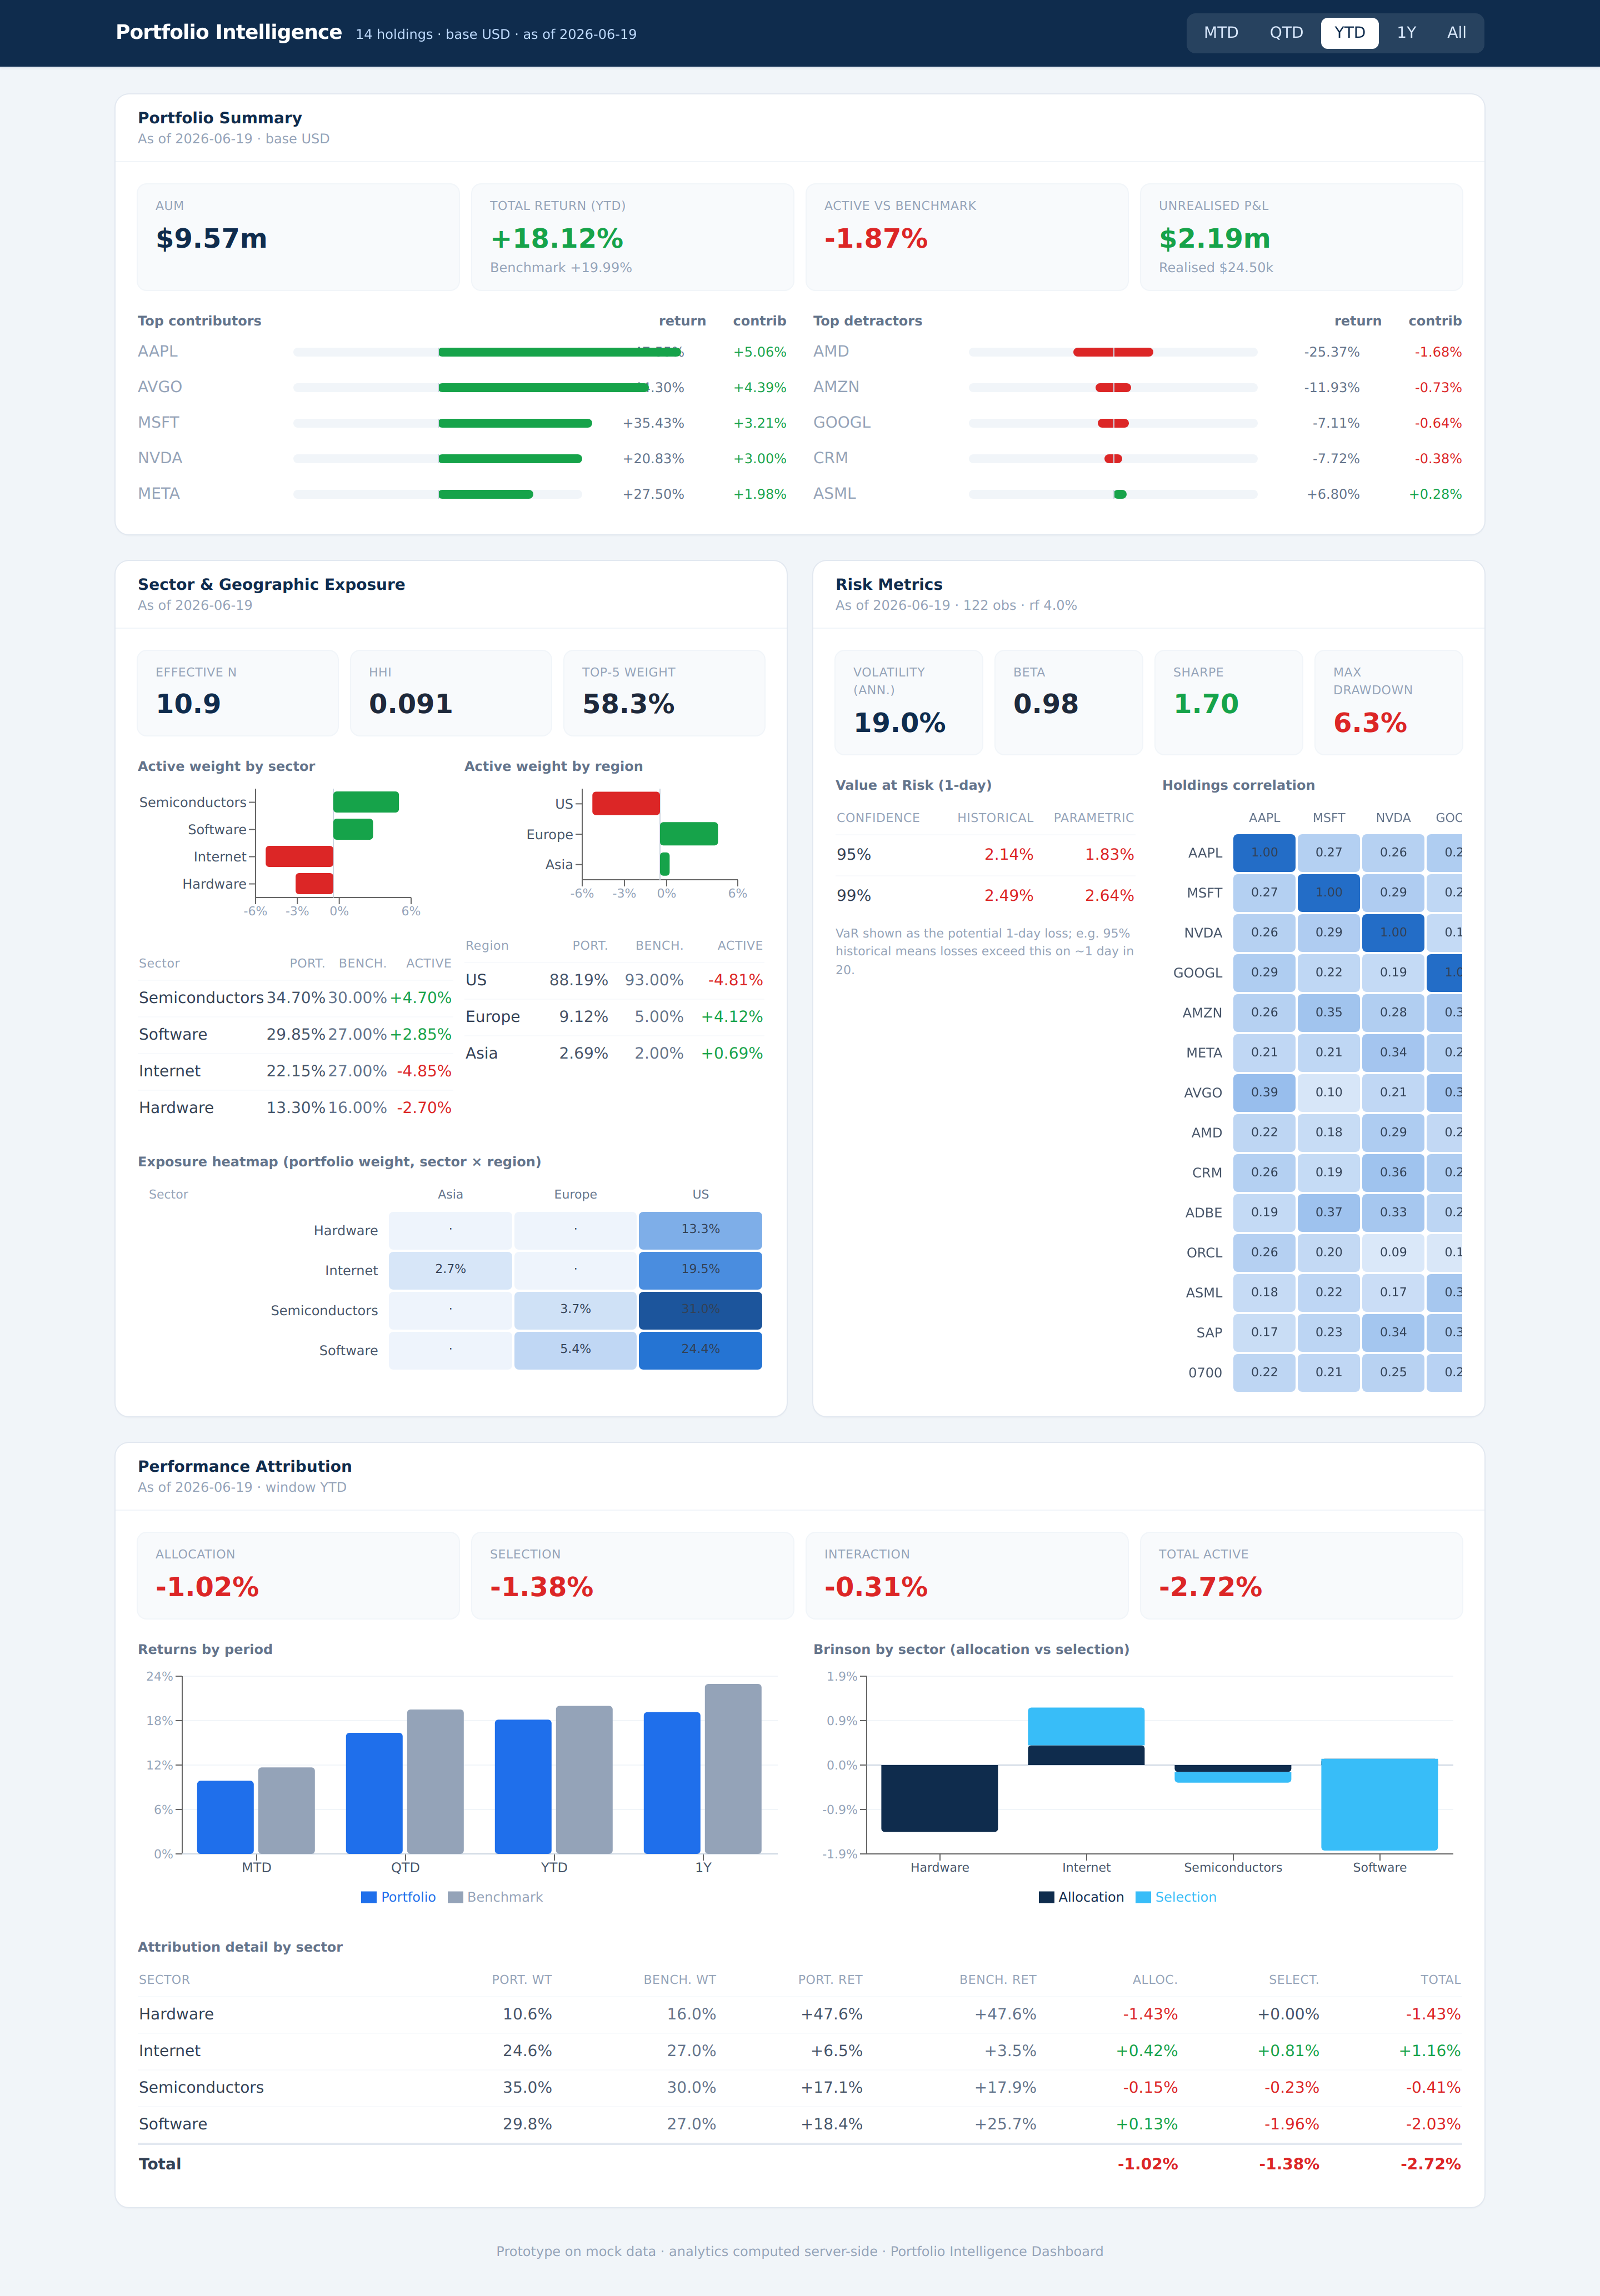
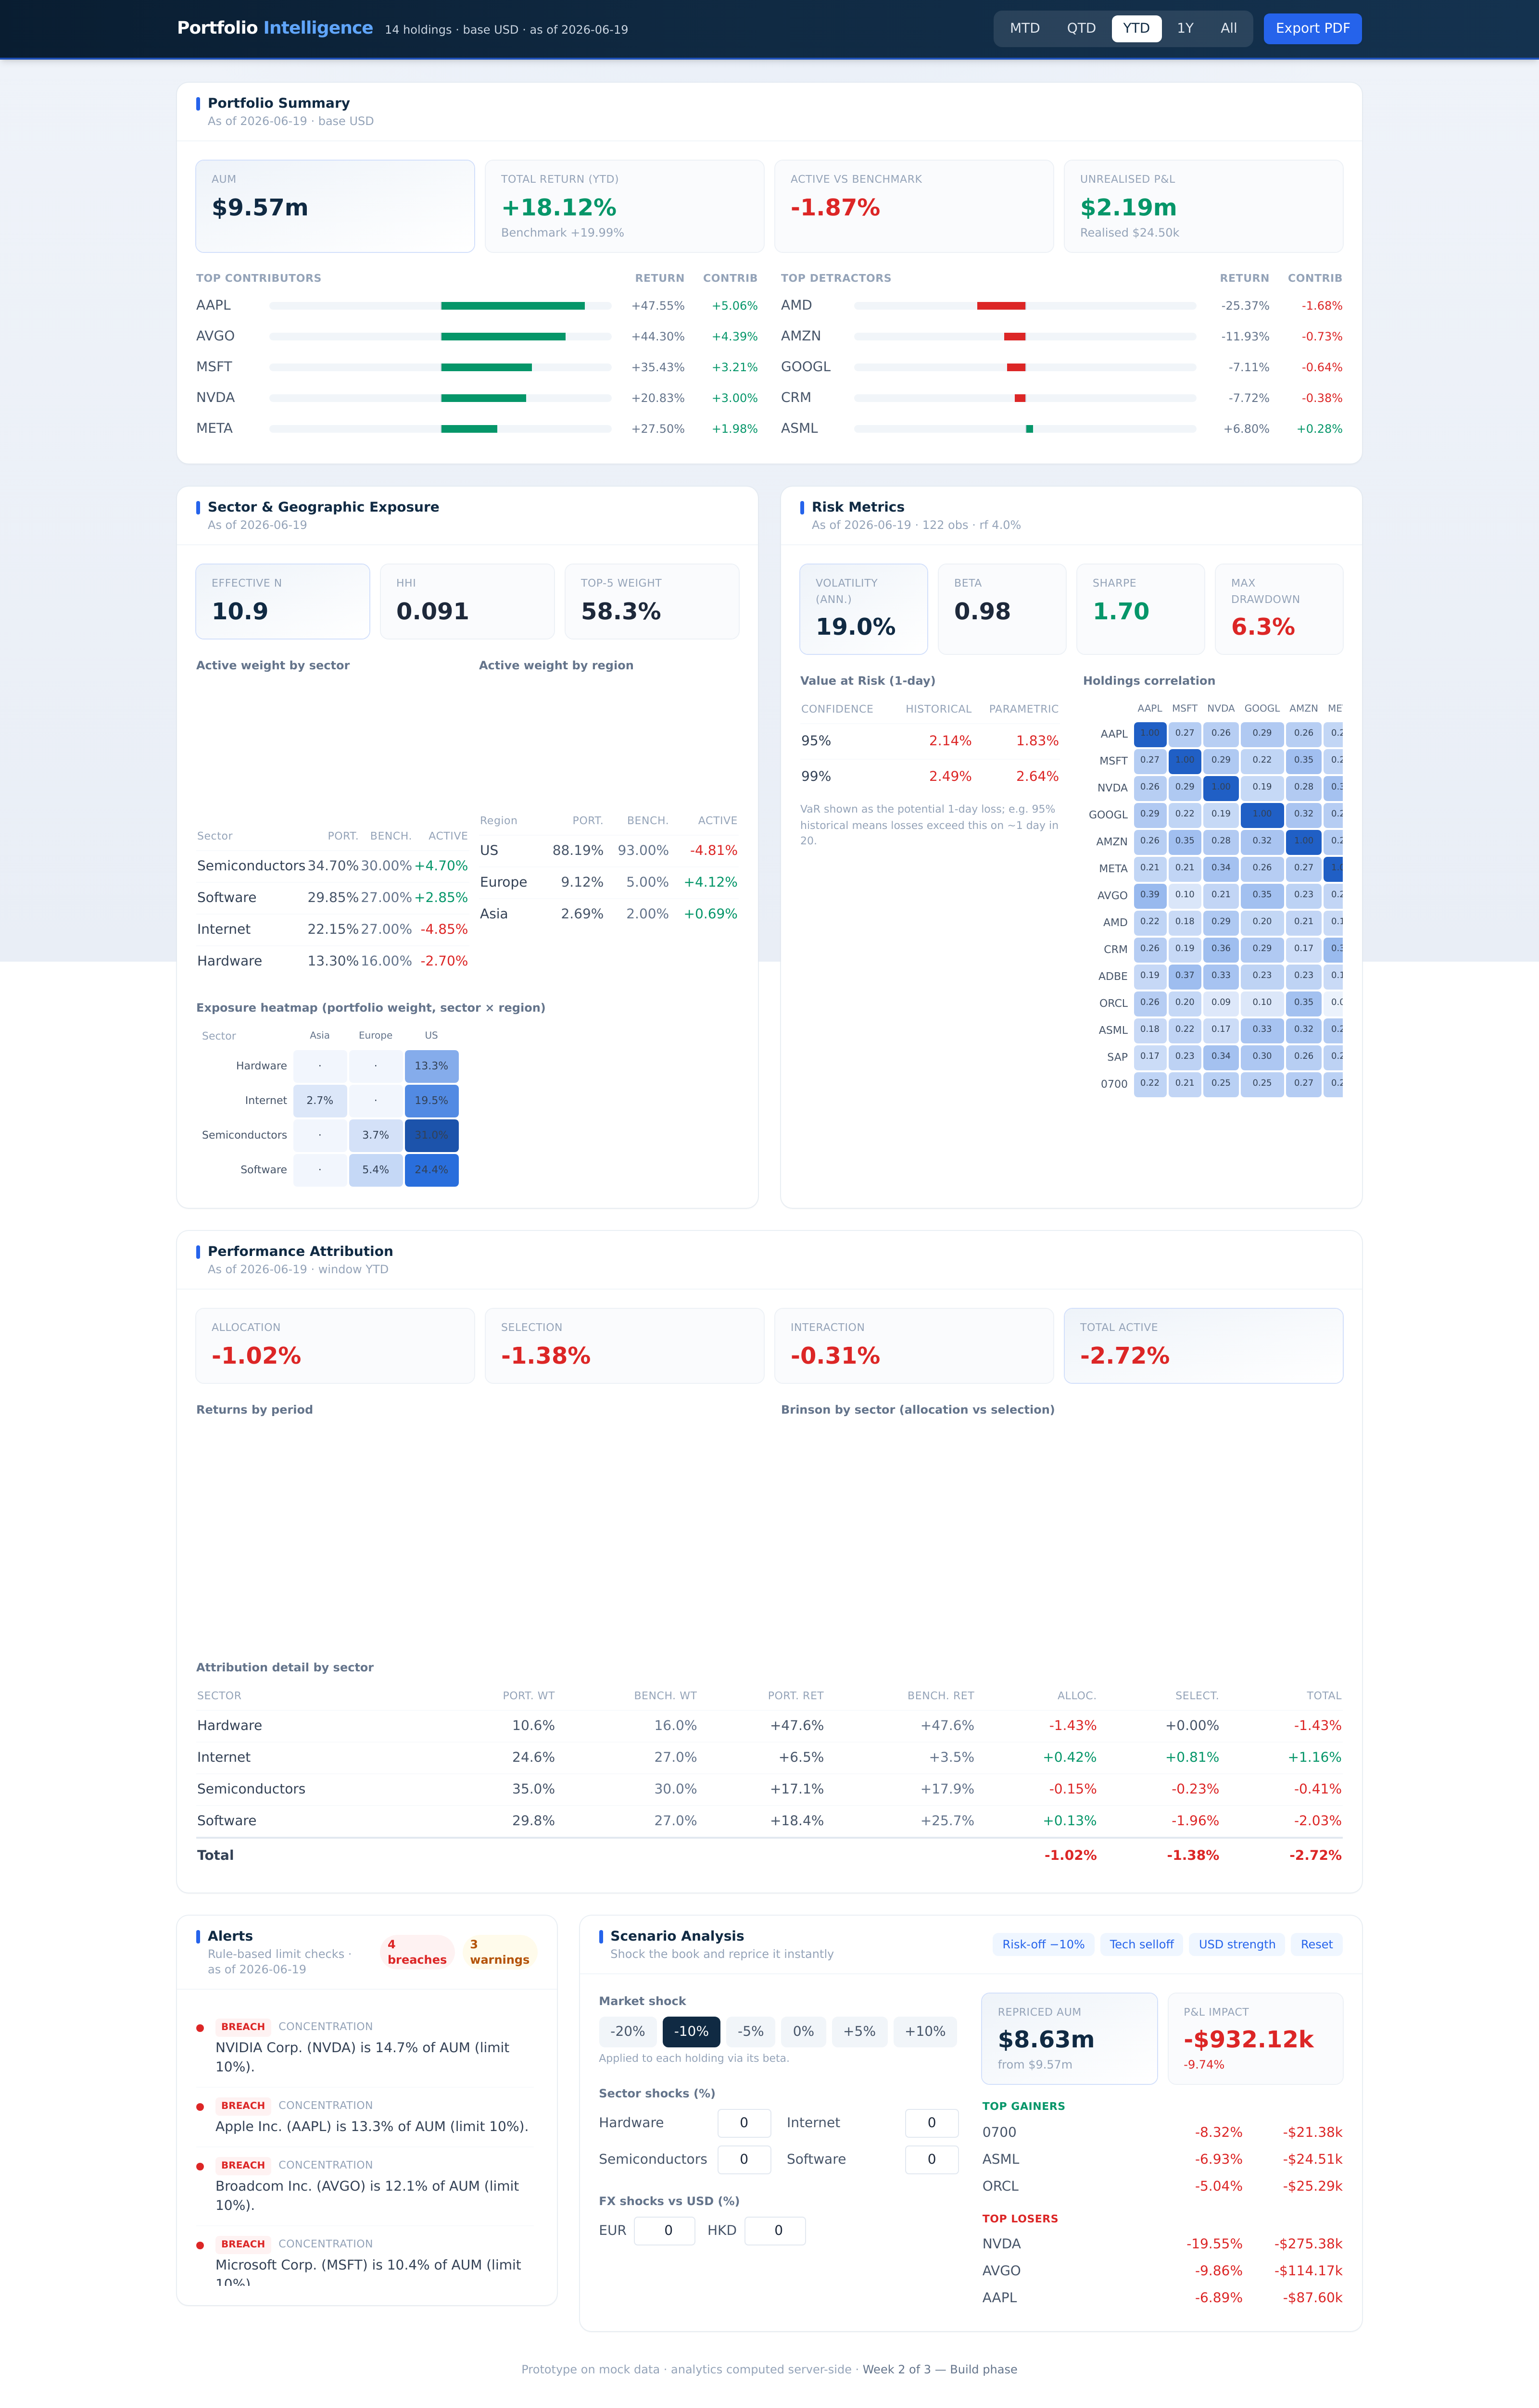
Refine dashboard colour palette
- Richer navy gradient header with a brand accent line; blue accent tabs on
  card titles; gradient hero KPI tiles.
- Cohesive tokens: deeper navy, brand blue + light, emerald positive.
- Aligned chart fills and heatmap/correlation scales to the palette.
- Softer tinted page background so cards lift; Export PDF as a brand button.
- Footer notes the Week 2 (Build) milestone.

Claude-Session: https://claude.ai/code/session_01SU1Rq5yRp257EzYNDRgxFz

diff --git a/frontend/src/components/ui.tsx b/frontend/src/components/ui.tsx
@@ -15,12 +15,17 @@ export function Card({
   className?: string;
 }) {
   return (
-    <section className={`rounded-xl bg-white shadow-sm ring-1 ring-slate-200 ${className}`}>
+    <section className={`rounded-xl bg-white shadow-sm shadow-navy-900/5 ring-1 ring-slate-200/70 ${className}`}>
       {(title || right) && (
-        <header className="flex items-center justify-between border-b border-slate-100 px-5 py-3">
+        <header className="flex items-center justify-between gap-3 border-b border-slate-100 px-5 py-3">
           <div>
-            {title && <h2 className="text-sm font-semibold text-navy">{title}</h2>}
-            {subtitle && <p className="text-xs text-slate-400">{subtitle}</p>}
+            {title && (
+              <h2 className="flex items-center gap-2 text-sm font-semibold text-navy">
+                <span className="h-3.5 w-1 rounded-full bg-brand" />
+                {title}
+              </h2>
+            )}
+            {subtitle && <p className="ml-3 text-xs text-slate-400">{subtitle}</p>}
           </div>
           {right}
         </header>
@@ -42,7 +47,13 @@ export function StatTile({
   tone?: "neutral" | "value";
 }) {
   return (
-    <div className="rounded-lg bg-slate-50 px-4 py-3 ring-1 ring-slate-100">
+    <div
+      className={`rounded-lg px-4 py-3 ring-1 ${
+        tone === "value"
+          ? "bg-gradient-to-br from-navy-50 to-white ring-brand/20"
+          : "bg-slate-50/70 ring-slate-200/60"
+      }`}
+    >
       <div className="text-[11px] font-medium uppercase tracking-wide text-slate-400">
         {label}
       </div>

diff --git a/frontend/src/components/Shell.tsx b/frontend/src/components/Shell.tsx
@@ -26,12 +26,14 @@ export function Shell({
 
   return (
     <div className="min-h-screen">
-      <header className="sticky top-0 z-10 border-b border-slate-200 bg-navy text-white shadow-sm">
+      <header className="sticky top-0 z-10 border-b-2 border-brand/70 bg-gradient-to-r from-navy-900 via-navy to-navy-800 text-white shadow-md">
         <div className="mx-auto flex max-w-7xl flex-wrap items-center justify-between gap-3 px-6 py-3">
           <div className="flex items-baseline gap-3">
-            <h1 className="text-lg font-semibold tracking-tight">Portfolio Intelligence</h1>
+            <h1 className="text-lg font-semibold tracking-tight">
+              Portfolio <span className="text-brand-light">Intelligence</span>
+            </h1>
             {meta?.has_data && (
-              <span className="text-xs text-blue-200">
+              <span className="text-xs text-slate-300">
                 {meta.holdings_count} holdings · base {meta.base_currency} · as of {meta.as_of}
               </span>
             )}
@@ -41,13 +43,15 @@ export function Shell({
             {dq && !dq.ok && (
               <Pill tone="amber">{dq.count} data issue{dq.count === 1 ? "" : "s"} flagged</Pill>
             )}
-            <div className="flex items-center gap-1 rounded-lg bg-white/10 p-1">
+            <div className="flex items-center gap-1 rounded-lg bg-white/10 p-1 ring-1 ring-white/10">
               {windows.map((w) => (
                 <button
                   key={w}
                   onClick={() => onWindow(w)}
                   className={`rounded-md px-3 py-1 text-sm font-medium transition ${
-                    w === window ? "bg-white text-navy" : "text-blue-100 hover:bg-white/10"
+                    w === window
+                      ? "bg-white text-navy shadow-sm"
+                      : "text-slate-200 hover:bg-white/10"
                   }`}
                 >
                   {WINDOW_LABELS[w]}
@@ -56,7 +60,7 @@ export function Shell({
             </div>
             <button
               onClick={() => globalThis.print()}
-              className="rounded-md border border-white/20 px-3 py-1.5 text-sm font-medium text-blue-100 hover:bg-white/10"
+              className="rounded-md bg-brand px-3 py-1.5 text-sm font-medium text-white shadow-sm transition hover:bg-brand-light"
               title="Export the current view as a PDF (print to PDF)"
             >
               Export PDF
@@ -68,7 +72,8 @@ export function Shell({
       <main className="mx-auto max-w-7xl px-6 py-6">{children}</main>
 
       <footer className="mx-auto max-w-7xl px-6 pb-8 pt-2 text-center text-xs text-slate-400">
-        Prototype on mock data · analytics computed server-side · Portfolio Intelligence Dashboard
+        Prototype on mock data · analytics computed server-side ·
+        <span className="text-slate-500"> Week 2 of 3 — Build phase</span>
       </footer>
     </div>
   );

diff --git a/frontend/tailwind.config.js b/frontend/tailwind.config.js
@@ -5,13 +5,19 @@ export default {
     extend: {
       colors: {
         navy: {
-          DEFAULT: "#0f2c4d",
-          50: "#f3f7fc",
-          900: "#0f2c4d",
+          DEFAULT: "#102a43",
+          50: "#eef3f9",
+          700: "#1c3d5e",
+          800: "#14324f",
+          900: "#091d31",
         },
-        brand: "#1f6feb",
-        positive: "#16a34a",
+        brand: {
+          DEFAULT: "#2563eb",
+          light: "#60a5fa",
+        },
+        positive: "#059669",
         negative: "#dc2626",
+        surface: "#eef2f8",
       },
       fontFamily: {
         sans: ["Inter", "system-ui", "-apple-system", "Segoe UI", "Roboto", "Calibri", "sans-serif"],

diff --git a/frontend/src/lib/format.ts b/frontend/src/lib/format.ts
@@ -50,13 +50,13 @@ export function signClass(x: number | null | undefined): string {
 // diverging red/green for active weights.
 export function heatBlue(v: number, max: number): string {
   const t = max > 0 ? Math.min(v / max, 1) : 0;
-  // light -> navy
-  const l = 96 - t * 60;
-  return `hsl(213, 70%, ${l}%)`;
+  // very light -> brand blue
+  const l = 97 - t * 58;
+  return `hsl(217, 72%, ${l}%)`;
 }
 
 export function diverging(v: number, max: number): string {
   const t = max > 0 ? Math.max(-1, Math.min(v / max, 1)) : 0;
-  if (t >= 0) return `hsl(145, 60%, ${92 - t * 42}%)`;
-  return `hsl(0, 65%, ${92 - -t * 42}%)`;
+  if (t >= 0) return `hsl(158, 55%, ${93 - t * 42}%)`;
+  return `hsl(2, 62%, ${93 - -t * 42}%)`;
 }

diff --git a/frontend/src/index.css b/frontend/src/index.css
@@ -7,7 +7,13 @@ html {
 }
 
 body {
-  @apply bg-slate-100 text-slate-800 font-sans;
+  @apply text-slate-800 font-sans;
+  /* Soft, slightly cool backdrop so the white cards lift off the page. */
+  background:
+    radial-gradient(1100px 520px at 50% -8%, #e6edf7 0%, rgba(230, 237, 247, 0) 60%),
+    linear-gradient(180deg, #eff3f9 0%, #e9eef6 100%);
+  background-attachment: fixed;
+  min-height: 100vh;
 }
 
 /* Numeric figures align nicely in tables. */

diff --git a/frontend/src/sections/AttributionSection.tsx b/frontend/src/sections/AttributionSection.tsx
@@ -57,8 +57,8 @@ export function AttributionSection({ window }: { window: WindowCode }) {
               <Tooltip formatter={(v: number) => fmtSignedPct(v)} contentStyle={{ fontSize: 12, borderRadius: 8 }} />
               <Legend wrapperStyle={{ fontSize: 12 }} />
               <ReferenceLine y={0} stroke="#cbd5e1" />
-              <Bar dataKey="Portfolio" fill="#1f6feb" radius={3} isAnimationActive={false} />
-              <Bar dataKey="Benchmark" fill="#94a3b8" radius={3} isAnimationActive={false} />
+              <Bar dataKey="Portfolio" fill="#2563eb" radius={3} isAnimationActive={false} />
+              <Bar dataKey="Benchmark" fill="#cbd5e1" radius={3} isAnimationActive={false} />
             </BarChart>
           </ResponsiveContainer>
         </div>
@@ -73,8 +73,8 @@ export function AttributionSection({ window }: { window: WindowCode }) {
               <Tooltip formatter={(v: number) => fmtSignedPct(v)} contentStyle={{ fontSize: 12, borderRadius: 8 }} />
               <Legend wrapperStyle={{ fontSize: 12 }} />
               <ReferenceLine y={0} stroke="#cbd5e1" />
-              <Bar dataKey="Allocation" stackId="a" fill="#0f2c4d" radius={[3, 3, 0, 0]} isAnimationActive={false} />
-              <Bar dataKey="Selection" stackId="a" fill="#38bdf8" radius={[3, 3, 0, 0]} isAnimationActive={false} />
+              <Bar dataKey="Allocation" stackId="a" fill="#102a43" radius={[3, 3, 0, 0]} isAnimationActive={false} />
+              <Bar dataKey="Selection" stackId="a" fill="#60a5fa" radius={[3, 3, 0, 0]} isAnimationActive={false} />
             </BarChart>
           </ResponsiveContainer>
         </div>

diff --git a/frontend/src/sections/RiskSection.tsx b/frontend/src/sections/RiskSection.tsx
@@ -7,8 +7,8 @@ import { fmtNum, fmtPct, signClass } from "../lib/format";
 
 function corrColor(v: number): string {
   // -1 (red) .. 0 (white) .. 1 (blue)
-  if (v >= 0) return `hsl(213, 70%, ${96 - v * 50}%)`;
-  return `hsl(0, 65%, ${96 - -v * 46}%)`;
+  if (v >= 0) return `hsl(217, 72%, ${97 - v * 52}%)`;
+  return `hsl(2, 62%, ${97 - -v * 46}%)`;
 }
 
 export function RiskSection({ window }: { window: WindowCode }) {

diff --git a/frontend/src/sections/ExposureSection.tsx b/frontend/src/sections/ExposureSection.tsx
@@ -32,7 +32,7 @@ function ActiveWeightChart({ rows, keyField }: { rows: GroupWeight[]; keyField: 
         <ReferenceLine x={0} stroke="#cbd5e1" />
         <Bar dataKey="active" radius={3} isAnimationActive={false}>
           {data.map((d, i) => (
-            <Cell key={i} fill={d.active >= 0 ? "#16a34a" : "#dc2626"} />
+            <Cell key={i} fill={d.active >= 0 ? "#059669" : "#dc2626"} />
           ))}
         </Bar>
       </BarChart>